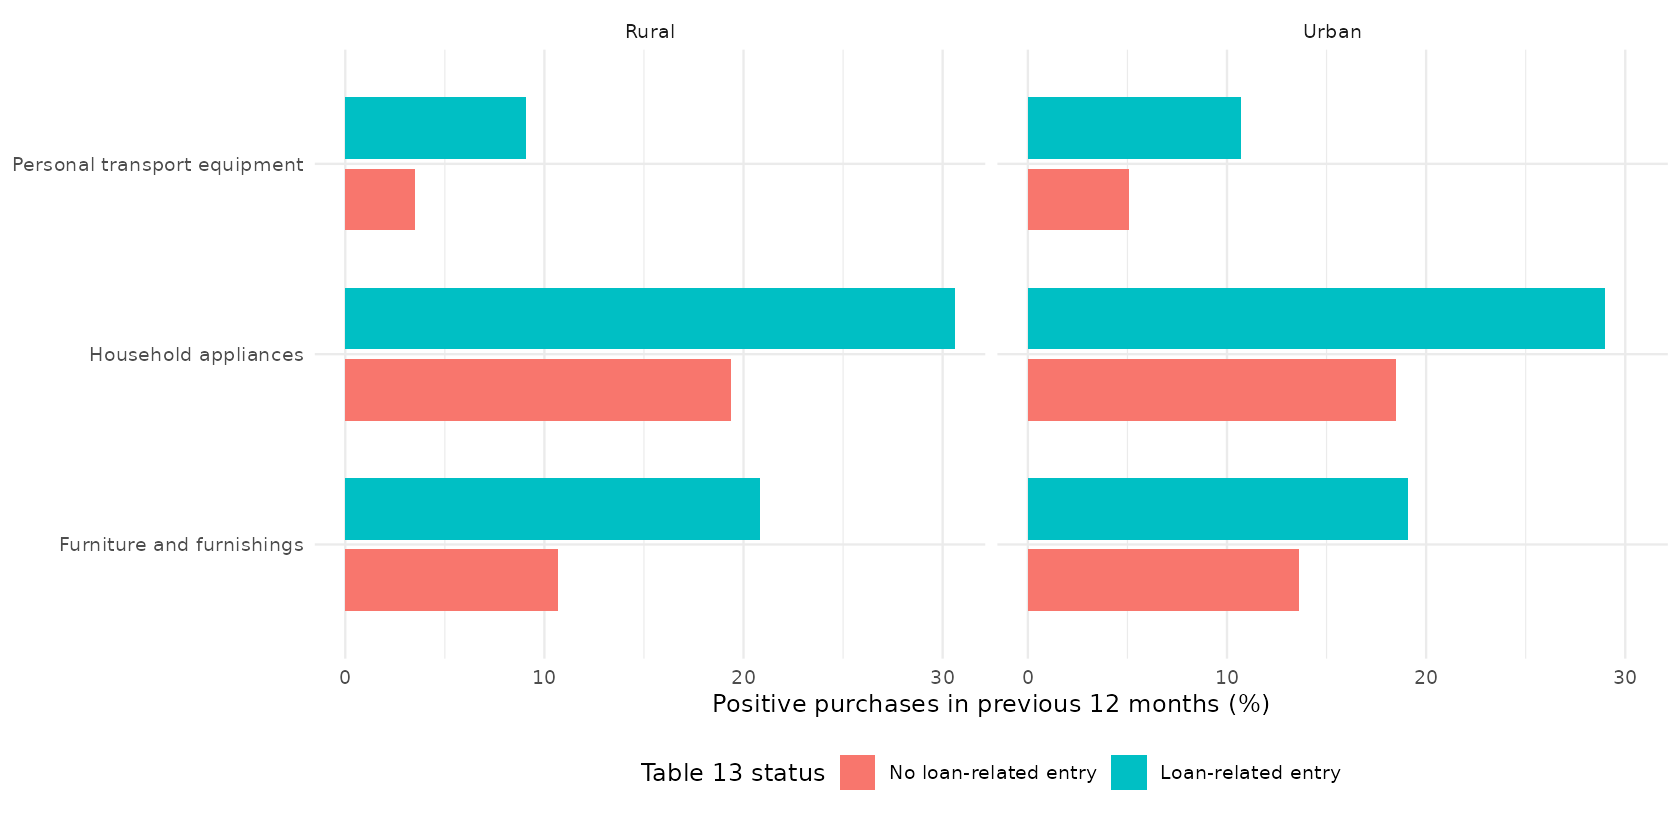
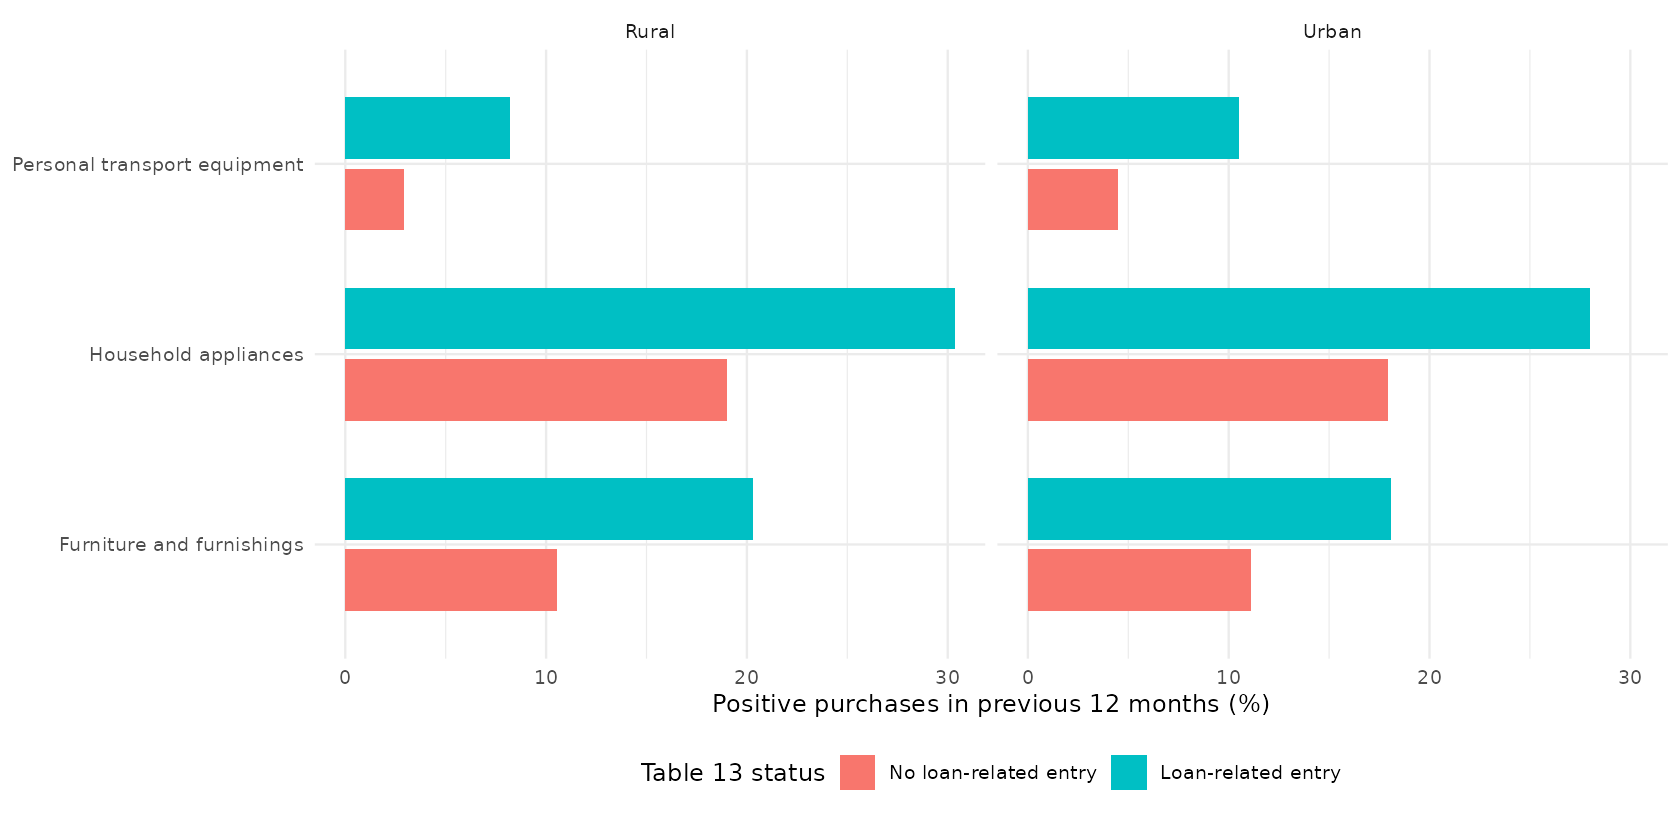
Update validated aggregate research results [skip ci]

diff --git a/outputs/RESEARCH_NOTE.md b/outputs/RESEARCH_NOTE.md
@@ -17,8 +17,9 @@ as the presence of at least one such item. No entry means no recorded
 **entry of this type**, not necessarily no borrowing or outstanding debt.
 
 Our principal expenditure outcomes use Table 13 purchases recorded over 
-the **previous 12 months**: code families **051** (furniture and furnishings), 
+the **previous 12 months**: selected items within **051** (furniture and furnishings), 
 **053** (household appliances), and **071** (personal transport equipment). 
+Repair, cleaning, installation and rental items are excluded. 
 Purchased records have acquisition method 1, and reported gross nominal 
 purchase amounts are not netted against sales of used items. The shared 
 recall window is preferable to comparing an annual loan report directly 
@@ -42,12 +43,12 @@ a recorded loan-related financial-service entry.
 
 | Category | Residence | No entry | Entry | Difference (pp) |
 | --- | --- | ---: | ---: | ---: |
-| Furniture and furnishings | Rural | 10.67% | 20.81% | 10.15 |
-| Furniture and furnishings | Urban | 13.60% | 19.11% | 5.51 |
-| Household appliances | Rural | 19.38% | 30.61% | 11.22 |
-| Household appliances | Urban | 18.47% | 28.99% | 10.52 |
-| Personal transport equipment | Rural | 3.50% | 9.09% | 5.59 |
-| Personal transport equipment | Urban | 5.06% | 10.68% | 5.62 |
+| Furniture and furnishings | Rural | 10.54% | 20.30% | 9.76 |
+| Furniture and furnishings | Urban | 11.10% | 18.08% | 6.98 |
+| Household appliances | Rural | 19.00% | 30.35% | 11.35 |
+| Household appliances | Urban | 17.94% | 27.98% | 10.04 |
+| Personal transport equipment | Rural | 2.95% | 8.19% | 5.24 |
+| Personal transport equipment | Urban | 4.48% | 10.53% | 6.04 |
 
 ![Selected durable purchases, by residence and reporting status](figures/annual_durable_purchase_participation.png)
 
@@ -62,10 +63,10 @@ reporting are:
 
 | Annual purchase outcome | Odds ratio | 95% interval (weights-only) | 95% interval (province clusters) | Cluster BH-adjusted p |
 | --- | ---: | ---: | ---: | ---: |
-| Furniture and furnishings | 1.25 | 1.12–1.40 | 1.05–1.51 | 0.017 |
-| Household appliances | 1.51 | 1.37–1.66 | 1.09–2.08 | 0.017 |
-| Personal transport equipment | 1.60 | 1.35–1.88 | 1.34–1.90 | <0.001 |
-| Any selected durable group | 1.49 | 1.36–1.63 | 1.15–1.93 | 0.009 |
+| Furniture and furnishings | 1.44 | 1.29–1.62 | 1.06–1.97 | 0.023 |
+| Household appliances | 1.49 | 1.35–1.64 | 1.08–2.06 | 0.023 |
+| Personal transport equipment | 1.74 | 1.46–2.07 | 1.50–2.02 | <0.001 |
+| Any selected durable group | 1.55 | 1.42–1.70 | 1.12–2.14 | 0.020 |
 
 These province-clustered intervals treat provinces as clusters and
 use t-based critical values with the fitted model residual degrees
@@ -81,7 +82,7 @@ In a secondary weighted linear model, reported loan-entry status is associated w
 Because annual total expenditure includes some of the purchases being
 modeled, the baseline quartile control may mechanically overlap with
 the dependent variable. An additional specification subtracts gross
-purchases in code families 051, 053, and 071 before computing weighted
+qualifying goods purchases within 051, 053, and 071 before computing weighted
 expenditure-per-person quartiles. This is an accounting sensitivity,
 not a validated measure of nondurable expenditure, income, or wealth.
 The same eligible households are used to compare the total and
@@ -91,10 +92,10 @@ The leave-out comparison retains 38,275 households; 0 are excluded by the leave-
 
 | Annual outcome | Total-expenditure OR (same sample) | Leave-out OR | Province-clustered 95% interval (leave-out) |
 | --- | ---: | ---: | ---: |
-| Furniture and furnishings | 1.25 | 1.32 | 1.10–1.59 |
-| Household appliances | 1.51 | 1.56 | 1.14–2.13 |
-| Personal transport equipment | 1.60 | 1.89 | 1.67–2.15 |
-| Any selected durable group | 1.49 | 1.58 | 1.26–1.98 |
+| Furniture and furnishings | 1.44 | 1.51 | 1.13–2.03 |
+| Household appliances | 1.49 | 1.54 | 1.13–2.10 |
+| Personal transport equipment | 1.74 | 2.09 | 1.76–2.48 |
+| Any selected durable group | 1.55 | 1.64 | 1.24–2.17 |
 
 As a distinct measurement check, households are classified into four
 mutually exclusive groups: no loan-related entry, housing-only,
@@ -117,8 +118,8 @@ For the combined durable-purchase outcome, the alternative comparisons are:
 
 | Loan-report comparison | Leave-out adjusted OR | 95% interval (weights-only) |
 | --- | ---: | ---: |
-| Non-housing only vs no entry | 1.64 | 1.50–1.81 |
-| Housing only vs no entry | 1.08 | 0.82–1.42 |
+| Non-housing only vs no entry | 1.71 | 1.55–1.87 |
+| Housing only vs no entry | 1.16 | 0.88–1.53 |
 
 The control-substitution exercise does not remove selection bias,
 prove that a loan paid for a purchase, or identify a causal effect.
